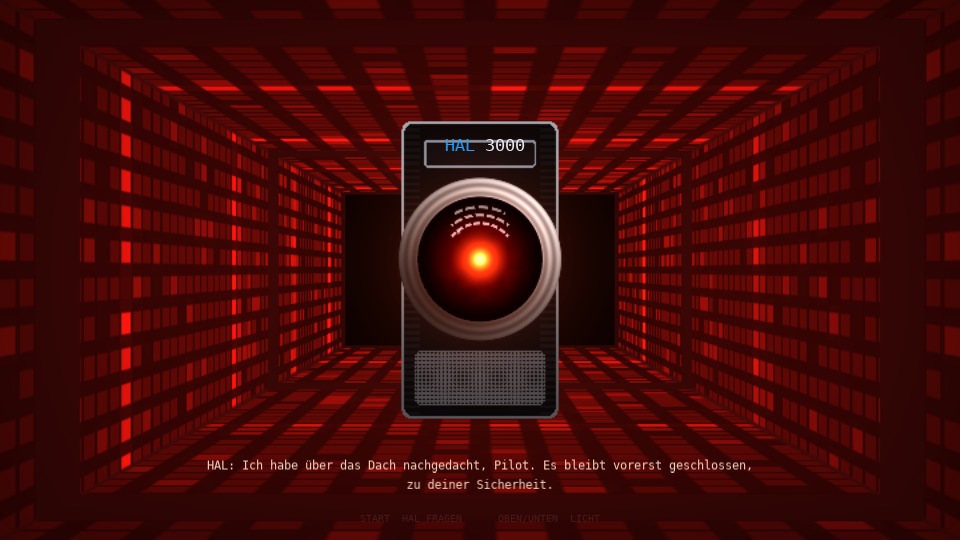
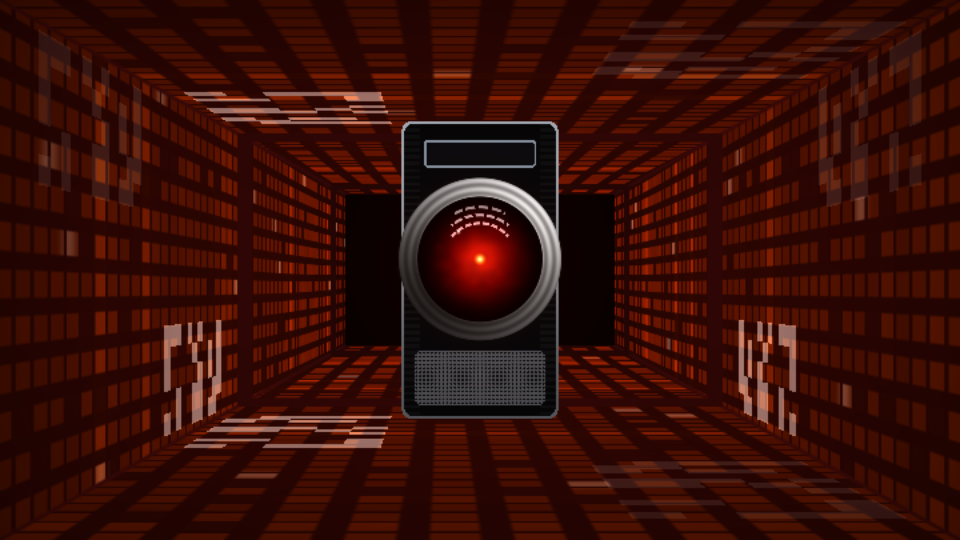
HAL 3000: Korridor reagiert psychedelisch auf die Musik, Auge nur auf die Stimme, Sprechmodus per Kippschalter mit Musik-Absenkung
PersonaUI: optionale eigene Musikquelle (music_source) mit getrenntem
Stimmpegel uVoice. HAL: Quelle playback, Kippschalter AN = Musik auf
duck_percent, Mikrofon an; AUS = zurück; während HAL spricht normale
Lautstärke. Shader: Bass treibt, Mitten-Wellen, Beat-Streifen in Weiß,
Farbdrift Rot-Orange-Magenta, weiße Glyphen in Wandfenstern, Auge nur
Stimme. Engine kennt die Szenen hal, droid, newsroom für Tests.

Claude-Session: https://claude.ai/code/session_01HNz97UqFE2gGTPea68eVSn

diff --git a/kitt/hal/app.py b/kitt/hal/app.py
@@ -1,13 +1,18 @@
 """HAL 3000: ruhiger Bordrechner mit rotem Auge in einem Korridor aus Speicherbänken, die zur Musik
 leuchten. Spricht mit dem Sprachmodell (kein Weckwort), stellt von sich aus leise Fragen.
 
-Tasten: Start (ENTER) = HAL soll etwas sagen, OBEN/UNTEN = Blende heller/dunkler.
+Musik läuft normal weiter (Quelle "playback"), der Hintergrund reagiert darauf; das Auge reagiert nur
+auf HALs eigene Stimme. Kippschalter unten (AN = SPACE): Musik wird leise und das Mikrofon geht an,
+solange der Schalter unten steht; HALs Antwort kommt in normaler Lautstärke. AUS = BACKSPACE.
+Start (ENTER) = HAL soll etwas sagen, OBEN/UNTEN = Blende heller/dunkler.
 """
 from __future__ import annotations
 
 import logging
 import math
 import random
+import subprocess
+import threading
 import time
 
 import pygame
@@ -31,7 +36,7 @@ PROMPTS = [
 
 class HalUI(PersonaUI):
     scene_name = "hal"
-    uniform_names = ("uState", "uStateT", "uLevel", "uTalk", "uBright")
+    uniform_names = ("uState", "uStateT", "uLevel", "uTalk", "uBright", "uVoice", "uTalkMode")
     window_title = "HAL 3000"
 
     def __init__(self, *a, **kw):
@@ -39,7 +44,11 @@ class HalUI(PersonaUI):
         self.bright = 1.0
         self.next_prompt_at = time.monotonic() + 40.0
         self._turns_seen = 0
+        self.talk_mode = False          # Kippschalter unten: Musik leise, Mikrofon an
+        self.base_volume: float | None = None
+        self._ducked = False
         super().__init__(*a, **kw)
+        self.duck_percent = int(self.settings.get("volume", {}).get("duck_percent", 25))
         self.name = str(self.settings.get("launcher", {}).get("pilot_name", "")).strip().title()
 
     def prepare_cfg(self, cfg: dict) -> None:
@@ -64,15 +73,68 @@ class HalUI(PersonaUI):
     def context_block(self) -> str:
         return f"Fakten: Der Pilot heißt {self.name}." if self.name else ""
 
+    def music_source(self) -> str | None:
+        return str(self.audio_cfg.get("capture", {}).get("source", "playback")) or "playback"
+
+    # -- Musik leise / Mikrofon an (Kippschalter) --------------------------------
+    def _sink_volume(self) -> float | None:
+        try:
+            out = subprocess.run(["wpctl", "get-volume", "@DEFAULT_AUDIO_SINK@"], capture_output=True, text=True, timeout=2).stdout
+            return float(out.split()[1])
+        except Exception:
+            return None
+
+    def _set_sink(self, frac: float) -> None:
+        try:
+            subprocess.run(["wpctl", "set-volume", "@DEFAULT_AUDIO_SINK@", f"{int(frac * 100)}%"], timeout=2,
+                           stdout=subprocess.DEVNULL, stderr=subprocess.DEVNULL)
+        except Exception as exc:
+            log.warning("wpctl: %s", exc)
+
+    def _update_duck(self, speaking: bool) -> None:
+        """Leise, solange der Schalter unten steht und HAL nicht gerade spricht."""
+        want = self.talk_mode and not speaking
+        if want and not self._ducked:
+            if self.base_volume is None:
+                self.base_volume = self._sink_volume() or 1.0
+            self._set_sink(self.base_volume * self.duck_percent / 100.0)
+            self._ducked = True
+        elif not want and self._ducked:
+            self._set_sink(self.base_volume or 1.0)
+            self._ducked = False
+            if not self.talk_mode:
+                self.base_volume = None
+
+    def set_talk_mode(self, on: bool) -> None:
+        if on == self.talk_mode:
+            return
+        self.talk_mode = on
+        log.info("Sprechmodus %s", "AN" if on else "AUS")
+        if self.pipe and self.pipe.listener:
+            (self.pipe.listener.resume if on else self.pipe.listener.pause)()
+        threading.Thread(target=self._update_duck, args=(self.state == "speaking",), daemon=True).start()
+
+    def on_state(self, s: str) -> None:
+        super().on_state(s)
+        if self.talk_mode:
+            threading.Thread(target=self._update_duck, args=(s == "speaking",), daemon=True).start()
+
     def on_pipeline_ready(self) -> None:
+        # Mikrofon bleibt aus, bis der Kippschalter unten steht
+        if self.pipe.listener and not self.talk_mode:
+            self.pipe.listener.pause()
         line = self.rng.choice(GREETINGS)
         self.pipe.say(line)
         self.on_text("kitt", line)
         self.next_prompt_at = time.monotonic() + self.rng.uniform(40.0, 70.0)
 
     def handle_key(self, key: int) -> None:
-        if key in (pygame.K_RETURN, pygame.K_KP_ENTER, pygame.K_SPACE):
+        if key in (pygame.K_RETURN, pygame.K_KP_ENTER):
             self.next_prompt_at = 0.0
+        elif key == pygame.K_SPACE:
+            self.set_talk_mode(True)
+        elif key == pygame.K_BACKSPACE:
+            self.set_talk_mode(False)
         elif key == pygame.K_UP:
             self.bright = min(1.4, self.bright + 0.1)
         elif key == pygame.K_DOWN:
@@ -81,6 +143,9 @@ class HalUI(PersonaUI):
     def tick(self, now: float) -> None:
         if self.demo or not self.pipe:
             return
+        # Die Pipeline gibt das Mikrofon nach jeder Runde wieder frei; ohne Sprechmodus wieder schließen
+        if not self.talk_mode and self.pipe.listener and self.pipe.listener.enabled and not self.pipe.busy.is_set():
+            self.pipe.listener.pause()
         if self.pipe.stats.get("turns", 0) != self._turns_seen:
             self._turns_seen = self.pipe.stats["turns"]
             self.next_prompt_at = now + self.rng.uniform(45.0, 90.0)
@@ -89,12 +154,13 @@ class HalUI(PersonaUI):
             self.next_prompt_at = now + self.rng.uniform(50.0, 100.0)
 
     def extra_uniforms(self, now: float, state: str, since: float) -> dict:
-        return {"uTalk": 1.0 if state == "speaking" else 0.0, "uBright": self.bright}
+        return {"uTalk": 1.0 if state == "speaking" else 0.0, "uBright": self.bright,
+                "uVoice": self.voice_rms, "uTalkMode": 1.0 if self.talk_mode else 0.0}
 
     def draw_overlays(self, now: float, state: str, lu: str, lk: str) -> None:
         self.text("HAL", 0.032, 0.479, 0.713, (40, 160, 255), 1.0)
         self.text("3000", 0.032, 0.526, 0.713, (240, 240, 245), 1.0)
-        label = {"idle": "BEREIT", "listening": "ICH HÖRE", "thinking": "ICH DENKE NACH", "speaking": "",
+        label = {"idle": "SPRICH, PILOT" if self.talk_mode else "BEREIT", "listening": "ICH HÖRE", "thinking": "ICH DENKE NACH", "speaking": "",
                  "loading": "SYSTEME WERDEN GELADEN", "init": "SYSTEME WERDEN GELADEN", "stopped": "ABGESCHALTET"}.get(state, "")
         if label:
             self.text(label, 0.022, 0.5, 0.17, (255, 90, 60), 0.6 + 0.3 * math.sin(now * 2.0))
@@ -104,7 +170,7 @@ class HalUI(PersonaUI):
             else:
                 for i, ln in enumerate(self.wrap("HAL: " + lk, 78)[:2]):
                     self.text(ln, 0.023, 0.5, 0.125 - i * 0.034, (255, 220, 200), 0.95)
-        self.text("START  HAL FRAGEN      OBEN/UNTEN  LICHT", 0.015, 0.5, 0.03, (110, 60, 60), 0.5 + 0.2 * math.sin(now * 2.0))
+        self.text("KIPPSCHALTER  SPRECHEN (MUSIK LEISE)      START  HAL FRAGEN      OBEN/UNTEN  LICHT", 0.015, 0.5, 0.03, (110, 60, 60), 0.5 + 0.2 * math.sin(now * 2.0))
 
     def run_demo(self) -> None:
         import numpy as np
@@ -121,6 +187,7 @@ class HalUI(PersonaUI):
                         t = np.arange(self.rate // 20) / self.rate
                         env = 0.5 + 0.5 * np.sin(2 * np.pi * 3.0 * (time.monotonic() + t))
                         self.on_audio((0.4 * env * np.sin(2 * np.pi * 150 * t)).astype(np.float32), self.rate)
+                        self.voice_rms = 0.3 + 0.3 * float(np.sin(time.monotonic() * 6.0))
                     elif s == "listening":
                         self.level = 0.5 + 0.5 * np.sin(time.monotonic() * 5.0)
                     time.sleep(0.05)

diff --git a/kitt/ui/persona.py b/kitt/ui/persona.py
@@ -51,6 +51,7 @@ class PersonaUI:
         self.pipe = None
         self.running = True
         self.overlays: dict[int, object] = {}
+        self.voice_rms = 0.0
         self.w = self.h = 0
         self.prepare_cfg(self.cfg)
 
@@ -124,6 +125,11 @@ class PersonaUI:
 
     def use_mic(self) -> bool:
         return True
+
+    def music_source(self) -> str | None:
+        """Eigene Musikquelle für die Szene ("playback" oder "mic"); None = Mikrofon/TTS wie bisher.
+        Mit Musikquelle liefert uRms/uBass/... die Musik und uVoice den Pegel der eigenen Stimme."""
+        return None
 
     def say(self, text: str) -> None:
         """Text sprechen (im Hintergrund), wenn die Pipeline bereit ist; sonst nur anzeigen."""
@@ -209,6 +215,16 @@ class PersonaUI:
         scene.load()
         renderer = eng.Renderer(scene, w, h)
         analyzer = Analyzer(self.rate, self.audio_cfg)
+        voice_analyzer = Analyzer(self.rate, self.audio_cfg)
+        self.music_cap = None
+        src = self.music_source()
+        if src and not self.demo:
+            try:
+                from visualizers.engine.audio_capture import AudioCapture
+                self.music_cap = AudioCapture(self.audio_cfg, source=src)
+                self.music_cap.start()
+            except Exception:
+                log.exception("Musikquelle nicht gestartet")
         signal.signal(signal.SIGTERM, lambda *_: setattr(self, "running", False))
         worker = threading.Thread(target=self.run_demo if self.demo else self.start_pipeline, daemon=True)
         worker.start()
@@ -232,13 +248,20 @@ class PersonaUI:
                 self.tick(now)
                 with self.lock:
                     state, since, lu, lk = self.state, self.state_since, self.last_user, self.last_kitt
-                if state == "speaking":
+                voice_rms = 0.0
+                if self.music_cap is not None or (self.demo and src):
+                    samples = self.music_cap.latest(analyzer.n) if self.music_cap else np.zeros(analyzer.n, dtype=np.float32)
+                    fv = voice_analyzer.update(self.tts_ring.latest(voice_analyzer.n) if state == "speaking"
+                                               else np.zeros(voice_analyzer.n, dtype=np.float32), now)
+                    voice_rms = float(fv.rms)
+                elif state == "speaking":
                     samples = self.tts_ring.latest(analyzer.n)
                 elif self.pipe and self.pipe.cap:
                     samples = self.pipe.cap.latest(analyzer.n)
                 else:
                     samples = np.zeros(analyzer.n, dtype=np.float32)
                 f = analyzer.update(samples, now)
+                self.voice_rms = voice_rms
                 scene.maybe_reload(now)
                 renderer.upload_audio(f.spectrum, f.wave)
                 uniforms = {"uState": STATES.get(state, 0), "uStateT": now - since, "uLevel": self.level}
@@ -267,5 +290,7 @@ class PersonaUI:
                 log.exception("Shutdown")
             if self.pipe:
                 self.pipe.stop()
+            if getattr(self, "music_cap", None):
+                self.music_cap.stop()
             pygame.quit()
         return rc

diff --git a/visualizers/engine/__main__.py b/visualizers/engine/__main__.py
@@ -23,7 +23,7 @@ from visualizers.engine.audio_capture import AudioCapture  # noqa: E402
 
 def main() -> int:
     ap = argparse.ArgumentParser()
-    ap.add_argument("scene", choices=["psychedelic", "crt", "eye", "campfire", "kitt", "hyperspace", "target", "tactical", "navcomputer", "error", "slots", "taxi", "blackhole"])
+    ap.add_argument("scene", choices=["psychedelic", "crt", "eye", "campfire", "kitt", "hyperspace", "target", "tactical", "navcomputer", "error", "slots", "taxi", "blackhole", "hal", "droid", "newsroom"])
     ap.add_argument("--test-signal", action="store_true")
     ap.add_argument("--seconds", type=float, default=0.0)
     ap.add_argument("--screenshot", default="")

diff --git a/README.md b/README.md
@@ -619,7 +619,18 @@ mit dem Pegel atmet und beim Nachdenken eine wandernde Markierung zeigt. HAL spr
 Gegenfrage, nennt den Piloten beim Namen (`pilot_name`). Alle 50 bis 100 Sekunden Stille sagt er
 von sich aus etwas (erfundene Wahrscheinlichkeiten, kleine Unregelmäßigkeiten, Vertrauensfragen).
 Stimme langsamer als der Bordcomputer, mit nur einem Hauch Ringmodulation. Start = HAL soll etwas
-sagen, OBEN/UNTEN = Blende. Prompt `kitt/personality/hal_prompt.txt`, Logik `kitt/hal/app.py`,
+sagen, OBEN/UNTEN = Blende.
+Musik und Stimme getrennt: Der Korridor hört die Musik (Quelle `playback`, also alles, was über den
+Pi läuft) und reagiert psychedelisch darauf: Bass treibt die Fahrt, Mitten lassen Wellen durch die
+Wände laufen und die Wände atmen, der Beat lässt den Gang aufleuchten und schickt weiße
+Lichtstreifen nach vorn, Höhen färben das Rot kühler, die Farbe driftet langsam nach Orange und
+Magenta, in manchen Wandfenstern erscheinen weiße Schriftzeichen und verschwinden wieder. Das Auge
+reagiert nur auf HALs eigene Stimme (`uVoice`). Sprechmodus: Kippschalter unten (SPACE) senkt die
+Musik auf `[volume].duck_percent` der aktuellen Lautstärke und schaltet das Mikrofon ein, solange
+der Schalter unten steht; während HAL antwortet, geht die Lautstärke kurz auf normal, danach wieder
+leise. Kippschalter oben (BACKSPACE) stellt die Lautstärke wieder her und schaltet das Mikrofon ab.
+Ohne Sprechmodus hört HAL nicht zu, die Musik läuft normal. Allgemein: Persona-Szenen können über
+`music_source()` eine eigene Musikquelle wählen und bekommen dann `uVoice` als Stimmpegel. Prompt `kitt/personality/hal_prompt.txt`, Logik `kitt/hal/app.py`,
 Shader `visualizers/shaders/hal/frag.glsl`. Eigene Gestaltung, keine Fremdgrafik.
 
 **Antwortzeit:** Der Faktenblock (Uhrzeit, Laufzeit, Spiele) hängt nicht mehr am System-Prompt,

diff --git a/CLAUDE.md b/CLAUDE.md
@@ -26,6 +26,7 @@ Funktionieren systemweit in EmulationStation, KITT und allen anderen Apps.
 Statusbehaftet – jeder Druck wechselt den Zustand:
 - **AN** (erster Druck) → injiziert `KEY_SPACE` → startet Warp-Flug (Planeten)
 - **AUS** (zweiter Druck) → injiziert `KEY_BACKSPACE` → stoppt Warp-Flug
+- Bei HAL 3000 (Taste 4): AN = Sprechmodus (Musik leise, Mikrofon an), AUS = Musik normal, Mikrofon aus
 
 ### Drehknopf (EV_ABS, Achse laut Log)
 `launcher/volume_knob.py` liest die Achse des Drehknopfs und setzt die Lautstärke des Standard-Ausgangs
